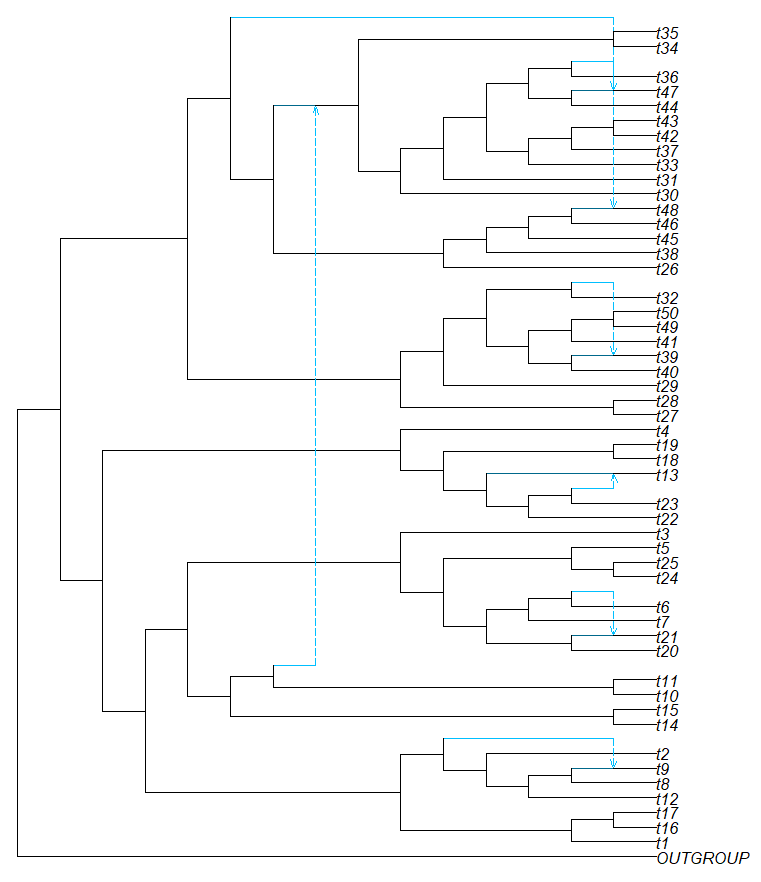
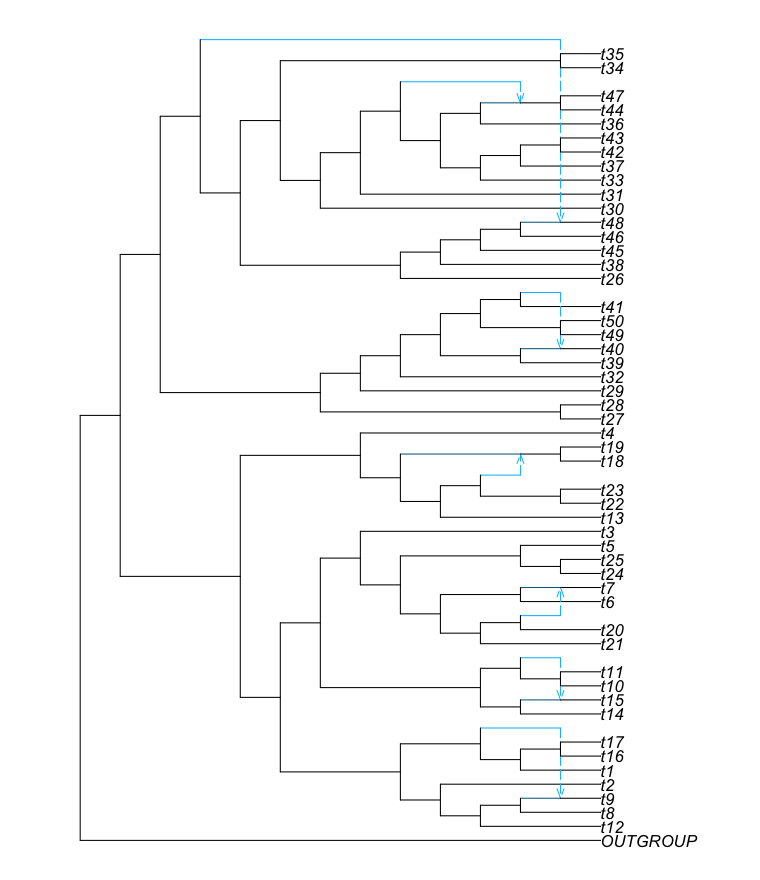
changes to docs assisted by claude

diff --git a/docs/src/walkthrough/subsets.md b/docs/src/walkthrough/subsets.md
@@ -2,14 +2,15 @@
 
 For thorough analyses, careful subset selection is important. InPhyNet cannot infer instances of reticulate evolution between its input networks, so several taxa from clades where reticulate evolution is likely to have occurred should appear together in at least one subset. To this end, we recommend first performing analyses with software like [TINNiK](https://cran.r-project.org/web/packages/MSCquartets/vignettes/TINNIK.html) to identify these areas. We provide an example of how this could be done below.
 
-Here, we take a naive approach and simply perform [centroid edge decomposition](https://pmc.ncbi.nlm.nih.gov/articles/PMC6705769/#:~:text=The%20clustering%20used%20in,each%20subset.&text=from%20the%20previous%20iteration%29%2C,each%20subset.&text=the%20two%20parts%20have,each%20subset.&text=each%20subtree%20until%20there,each%20subset.) on a species tree inferred by InPhyNet without any constraint networks (this is equivalent to Neighbor-Joining). Centroid edge decomposition is a recursive process that splits a "guide tree" in half at a single edge such that the two halves are of equal size. Then, this process is done recursively on the resulting trees until each subtree contains at most some predefined number of taxa.
+Here, we take a naive approach and simply perform [centroid edge decomposition](https://pmc.ncbi.nlm.nih.gov/articles/PMC6705769/#:~:text=The%20clustering%20used%20in,each%20subset.&text=from%20the%20previous%20iteration%29%2C,each%20subset.&text=the%20two%20parts%20have,each%20subset.&text=each%20subtree%20until%20there,each%20subset.) on a neighbor-joining tree built from ``D`` with PhyloNetworks' `nj`. Centroid edge decomposition is a recursive process that splits a "guide tree" in half at a single edge such that the two halves are of equal size. Then, this process is done recursively on the resulting trees until each subtree contains at most some predefined number of taxa.
 
 This requires us to specify a maximum subset size–for this walkthrough we will use $8$. In practice we recommend that you use the highest number such that you can still infer networks in a reasonable amount of time with your preferred network inference software. We use $8$ here so that all of the walkthrough can be completed quickly.
 
 Additionally, we specify a minimum subset size of $5$ because that is the smallest set of data that SNaQ can infer a network on.
 
 ```julia
-nj_tre = inphynet(D, namelist)
+using DataFrames
+nj_tre = nj(DataFrame(D, namelist))
 subsets = centroid_edge_decomposition(nj_tre, 5, 8)
 ```
 

diff --git a/docs/src/installation.md b/docs/src/installation.md
@@ -13,8 +13,8 @@ using Pkg
 Pkg.add("InPhyNet")
 ```
 
-The walkthrough also uses [SNaQ.jl](https://github.com/JuliaPhylo/SNaQ.jl) to infer the constraint networks and [PhyloPlots.jl](https://github.com/JuliaPhylo/PhyloPlots.jl) to plot the final network. To follow along, install them as well:
+The walkthrough also uses [SNaQ.jl](https://github.com/JuliaPhylo/SNaQ.jl) to infer the constraint networks, [DataFrames.jl](https://github.com/JuliaData/DataFrames.jl) to build the guide tree, and [PhyloPlots.jl](https://github.com/JuliaPhylo/PhyloPlots.jl) to plot the final network. To follow along, install them as well:
 
 ```julia
-Pkg.add(["SNaQ", "PhyloPlots"])
+Pkg.add(["SNaQ", "DataFrames", "PhyloPlots"])
 ```
